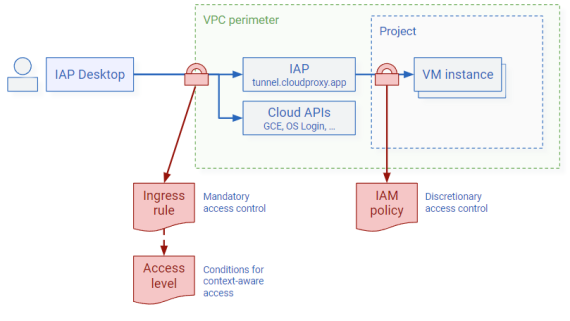
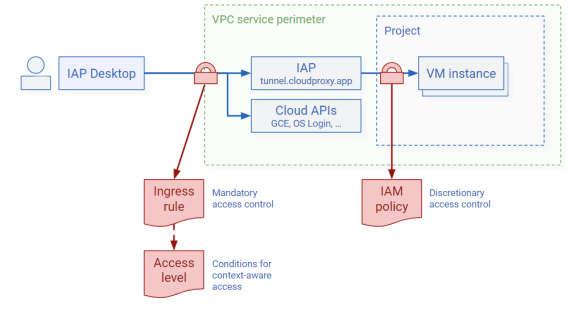
Fix wording around VPC SC perimeter

Changed region(s): [[0.0, 0.1709, 0.9842, 0.9684], [0.3281, 0.0, 0.9842, 0.1139], [0.9544, 0.057, 0.9842, 0.4557]]

diff --git a/doc/site/sources/docs/control-access-to-vms.md b/doc/site/sources/docs/control-access-to-vms.md
@@ -55,7 +55,8 @@ Context-aware access distinguishes between policy definition and policy enforcem
 
     There are multiple ways to configure IAP so that it enforces context-aware access checks:
 
-    *   For VMs that aren't part of a service perimeter, you can use [IAM conditions](#iam-conditions) or 
+    *   For VMs that aren't part of a [VPC service perimeter :octicons-link-external-16:](https://cloud.google.com/vpc-service-controls/docs/service-perimeters), 
+        you can use [IAM conditions](#iam-conditions) or 
         [access bindings](#access-bindings) to 
         require users to satisfy a certain access level.
     *   For VMs that are part of a service perimeter, you can use 
@@ -98,7 +99,8 @@ Using access bindings works best if you want to ensure that context-aware access
 
 ### VPC service control ingress rules
 
-For VMs that are part of a service perimeter, IAP detects whether the user’s workstation is part of the same 
+For VMs that are part of a [VPC service perimeter :octicons-link-external-16:](https://cloud.google.com/vpc-service-controls/docs/service-perimeters),
+IAP detects whether the user’s workstation is part of the same 
 VPC service perimeter. That is the case if any of the following applies:
 
 *   The source IP is the external IP address of a Compute Engine VM.
